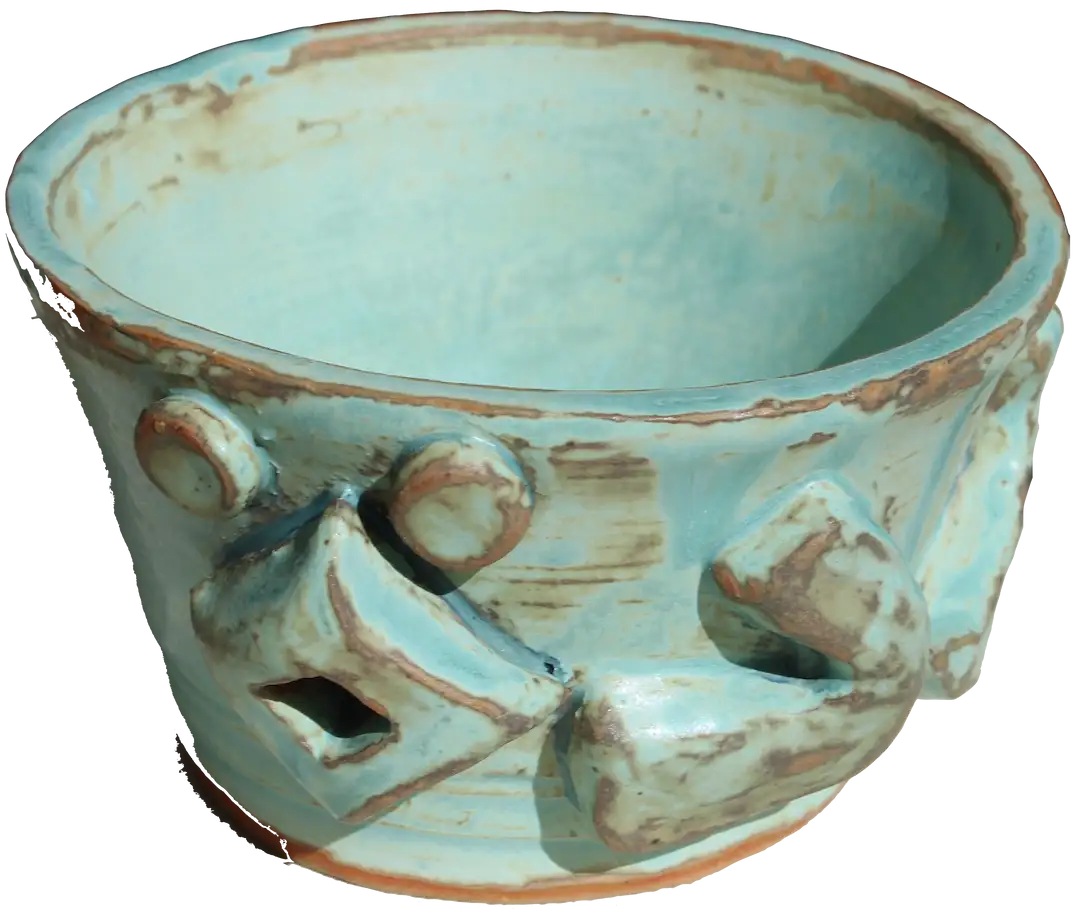
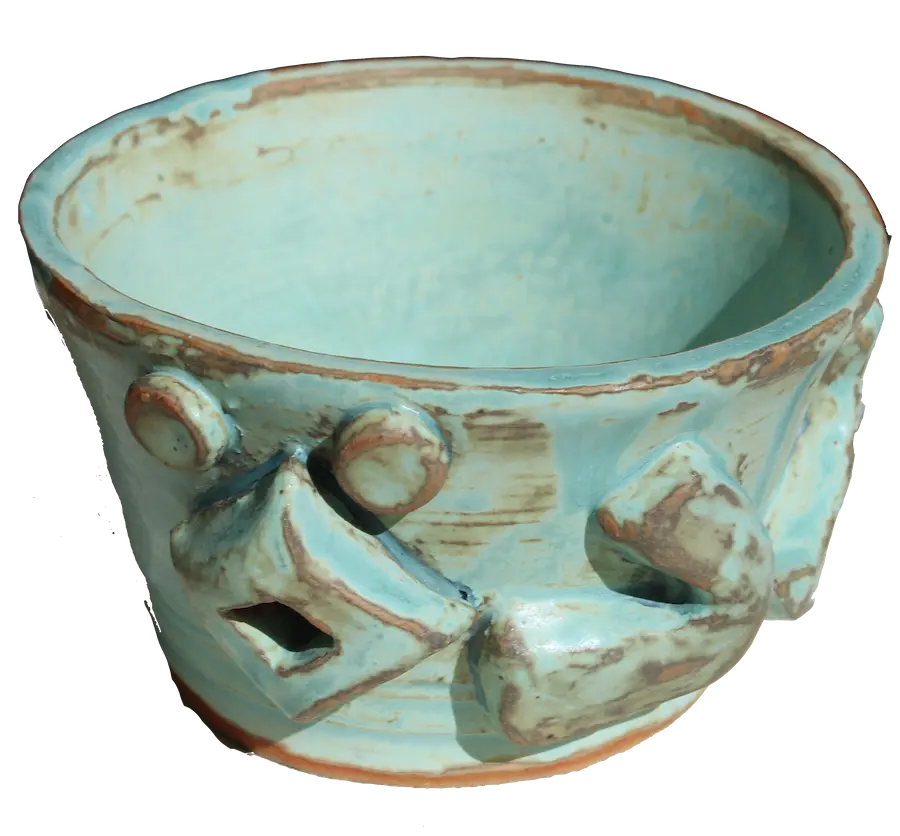
Ceramics

diff --git a/works.html b/works.html
@@ -319,8 +319,9 @@
   </p>
   <img src="graphics/calligraphy2.webp" class="gallery-img" onclick="enlarge(this)" />
 </div>
+</div>
+  </div>
 
-  
       <div id="graphic-design-gallery" style="margin-top: 60px;">
         <img src="graphics-button.png" alt="Graphic Design" class="section-header-img" />
                        <p class="subheader-desc"> I LOVE U ADOBE ILLUSTRATOR <3 Most of these were made in my Design I class. Maybe one day I will start ALiA DOLLS! </p>
@@ -345,10 +346,39 @@
 <div id="ceramics-gallery" style="margin-top: 60px;">
   <img src="ceramics-button.webp" alt="Ceramics" class="section-header-img" />
   <p class="subheader-desc">
-    Ceramics! Made at Sterling Hall. Probably the hardest yet most energizing art form I've experienced. You really can do anything or make anything in ceramics and I still have so many more ideas!
-  </p>
-  
+    Ceramics! Made at Sterling Hall. Probably the hardest yet most energizing art form I've experienced. You really can do anything or make anything in ceramics and I still have sooooo many more ideas!</p>
+  <p>Hover to explore details</p>
   <div class="ceramic-container">
+
+    <div class="ceramic-item">
+      <img src="ceramics/bowl1-front.webp" class="ceramic-img img1" loading="lazy">
+      <img src="ceramics/bowl1-back.webp" class="ceramic-img img2" loading="lazy">
+    </div>
+
+    <div class="ceramic-item">
+      <img src="ceramics/warda1.webp" class="ceramic-img img1" loading="lazy">
+      <img src="ceramics/warda2.webp" class="ceramic-img img2" loading="lazy">
+    </div>
+
+    <div class="ceramic-item">
+      <img src="ceramics/bowl2-front.webp" class="ceramic-img img1" loading="lazy">
+      <img src="ceramics/bowl2-side.webp" class="ceramic-img img2" loading="lazy">
+    </div>
+
+<div class="ceramic-item">
+      <img src="ceramics/heart1.webp" class="ceramic-img img1" loading="lazy">
+      <img src="ceramics/heart2.webp" class="ceramic-img img2" loading="lazy">
+    </div>
+
+    <div class="ceramic-item">
+      <img src="ceramics/polkajar1.webp" class="ceramic-img img1" loading="lazy">
+      <img src="ceramics/polkajar2.webp" class="ceramic-img img2" loading="lazy">
+    </div>
+
+<div class="ceramic-item">
+      <img src="ceramics/polkajug1.webp" class="ceramic-img img1" loading="lazy">
+      <img src="ceramics/polkajug2.webp" class="ceramic-img img2" loading="lazy">
+    </div>
 
     <div class="ceramic-item">
       <img src="ceramics/soph1.webp" class="ceramic-img img1" loading="lazy"   >
@@ -365,11 +395,6 @@
       <img src="ceramics/sam2.webp" class="ceramic-img img2" loading="lazy">
     </div>
 
-<div class="ceramic-item">
-      <img src="ceramics/warda1.webp" class="ceramic-img img1" loading="lazy">
-      <img src="ceramics/warda2.webp" class="ceramic-img img2" loading="lazy">
-    </div>
-
 
     <div class="ceramic-item small">
       <img src="ceramics/oilspill1.webp" class="ceramic-img img1"loading="lazy" >
@@ -377,15 +402,20 @@
     </div>
 
     <div class="ceramic-item">
+      <img src="ceramics/blu1.webp" class="ceramic-img img1"loading="lazy" >
+      <img src="ceramics/blu2.webp" class="ceramic-img img2" loading="lazy">
+    </div>
+
+     <div class="ceramic-item">
+      <img src="ceramics/orange-flashing1.webp" class="ceramic-img img1"loading="lazy" >
+      <img src="ceramics/orange-flashing2.webp" class="ceramic-img img2" loading="lazy">
+    </div>
+
+     <div class="ceramic-item">
       <img src="ceramics/red1.webp" class="ceramic-img img1" loading="lazy">
       <img src="ceramics/red2.webp" class="ceramic-img img2" loading="lazy">
     </div>
 
-
-    <div class="ceramic-item">
-      <img src="ceramics/blu1.webp" class="ceramic-img img1"loading="lazy" >
-      <img src="ceramics/blu2.webp" class="ceramic-img img2" loading="lazy">
-    </div>
 
   </div>
 </div>

diff --git a/styles.css b/styles.css
@@ -52,34 +52,34 @@ nav {
 }
 
 
-.nav-button {
-  background: none;
-  border: none;
-  padding: 0;
-  cursor: pointer;
-  text-decoration: none;
-  display: inline-block;
-}
-
 .nav-img {
   max-width: 120px;
   height: auto;
-  cursor: pointer;
-  transition: opacity 0.3s ease;
-  display: inline-block;
-  margin: 0;
-  padding: 0;
-  background: none;
-  border: none;
+  transition: transform 0.6s ease, box-shadow 0.3s ease;
 }
 
-.nav-img:hover {
-  opacity: 2;
-  transform: scale(1.25);
-  box-shadow: 0 0 8px #e85ce8;
-  border-radius: 12px;
-  transition: opacity 0.3s ease, transform 0.6s ease, box-shadow 0.3s ease;
+
+
+.nav-button {
+  background-color: #ffffff;
+  border: none;
+  padding: 10px;
+  display: inline-flex;
+  align-items: center;
+  flex: 0 0 auto;  
+    max-width: 120px;
+
+  width: auto; 
+  justify-content: center;
+  transition: transform 0.3s ease, box-shadow 0.3s ease;
 }
+
+.nav-button:hover {
+  transform: scale(1.05);
+  box-shadow: 0 0 12px #e85ce8;
+}
+
+
 .home-button {
   position: fixed;
   top: 10px;          
@@ -107,10 +107,7 @@ a,
 .home-button img {
   cursor: url('path-to-image.png'), auto;
 }
-.logo-img:hover {
-  transform: scale(1.02);
-  transition: transform 0.3s ease;
-}
+
 .fade-in {
   animation: fadeIn 1.5s ease-in-out both;
 }

diff --git a/works.css b/works.css
@@ -694,7 +694,12 @@ html, body {
   grid-template-columns: repeat(3, 350px); 
   gap: 16px;  
   justify-items: center; 
+  justify-content: center;
+    width: 100%;
+  max-width: 1200px;
+  margin: 0 auto;
 }
+
 
 .ceramic-item {
   width: 350px;  
@@ -736,17 +741,26 @@ position: absolute;
   width: 310px;
   height: 310px;
 }
-@media (max-width: 600px) {
+@media (max-width: 768px) {
+
   .ceramic-container {
-    gap: 0.5rem;
+    grid-template-columns: 1fr;   /* ONE column */
+    gap: 20px;
+    justify-items: center; 
+    padding: 0 16px;
   }
 
   .ceramic-item {
-    flex: 1 1 100%;  
-    max-width: none;
+    width: 100%;
+    max-width: 350px;
+    height: auto;
+    aspect-ratio: 1 / 1;   /* keeps square shape */
   }
 
   .ceramic-img {
-    height: auto;
+    width: 100%;
+    height: 100%;
+    object-fit: contain;
   }
+
 }
